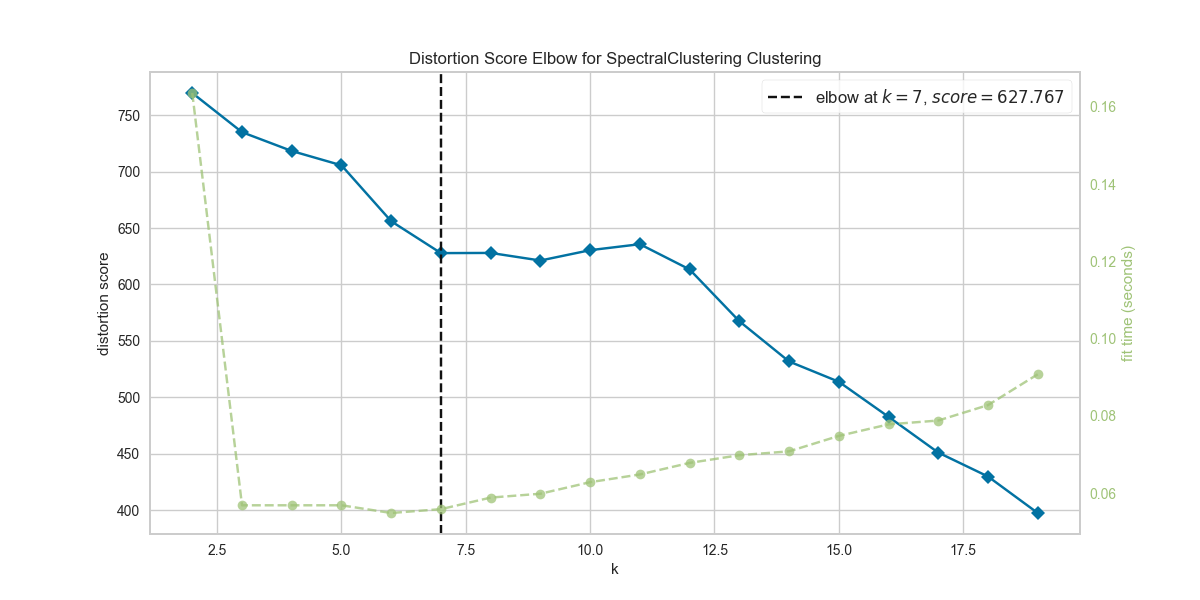
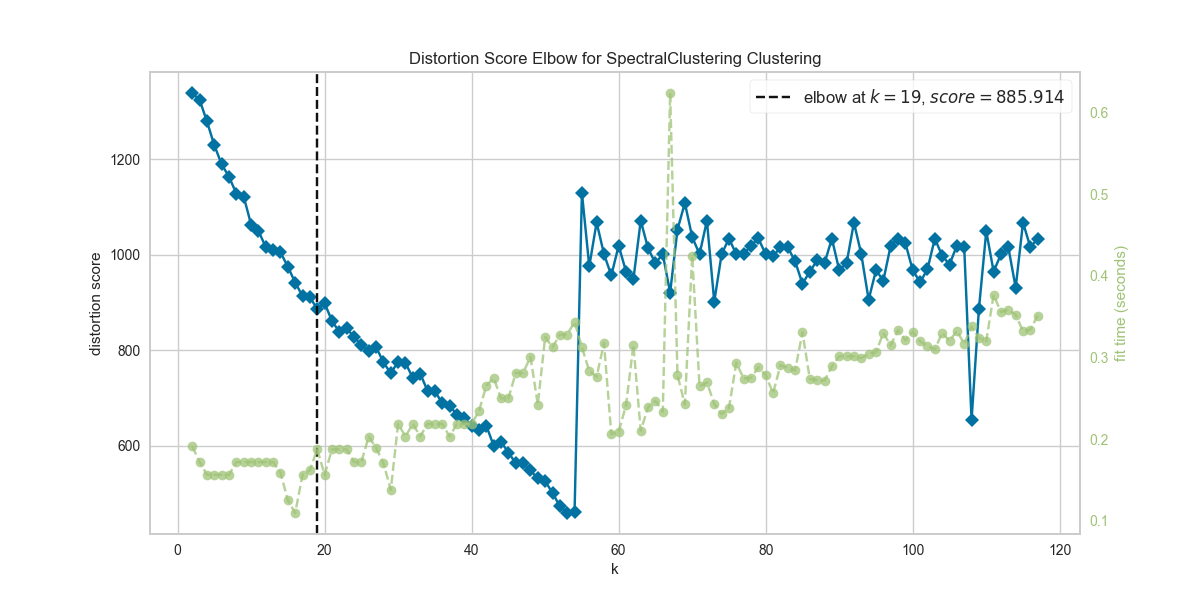
Cleaning Data
Solo limpiando mejor los datos para una mejor clasificación

diff --git a/Backend/Clasificador/Word2VecPlusPCAPlusKmeans/Classifier.py b/Backend/Clasificador/Word2VecPlusPCAPlusKmeans/Classifier.py
@@ -16,12 +16,25 @@ with open('DB.csv', 'r', encoding='UTF-8', newline='') as f:
 
 l = [re.sub('[\\n]','',value[0]) for value in data]
 
+l = [i.split('. ') for i in l]
+
+nl = []
+
+for i in l:
+  nl += i
+
 nlp = spacy.load('es_core_news_sm')
 
 tokensl = []
-for corpus in l:
+for corpus in nl:
   doc = nlp(corpus)
   tokensl.append([t.lemma_.lower().split(' ')[0] for t in doc if t.orth_.isalpha() and not t.is_punct | t.is_stop])
+
+c = 0
+for j in [i for i,le in enumerate(tokensl) if len(le) == 0]:
+  nl.pop(j-c)
+  tokensl.pop(j-c)
+  c += 1
 
 path = '/'.join(os.path.dirname(__file__).split('\\')[:-1])
 
@@ -67,10 +80,9 @@ plt.clf()
 pca = PCA(n_components=0.95).fit(avgwvt)
 reduced = pca.transform(avgwvt)
 
-
 kmmodel = SpectralClustering()
 visualizer = KElbowVisualizer(
-    kmmodel, k=(2,20)
+    kmmodel, k=(2,avgwvt.shape[0])
 )
 
 visualizer.fit(reduced)
@@ -81,4 +93,4 @@ kmmodel = SpectralClustering(visualizer.elbow_value_).fit(reduced)
 with open('DBN.csv', 'w', newline='') as f:
     # using csv.writer method from CSV package
     write = csv.writer(f)
-    write.writerows([list(i) for i in zip(kmmodel.labels_.tolist(),l)])
+    write.writerows([list(i) for i in zip(kmmodel.labels_.tolist(),nl)])
